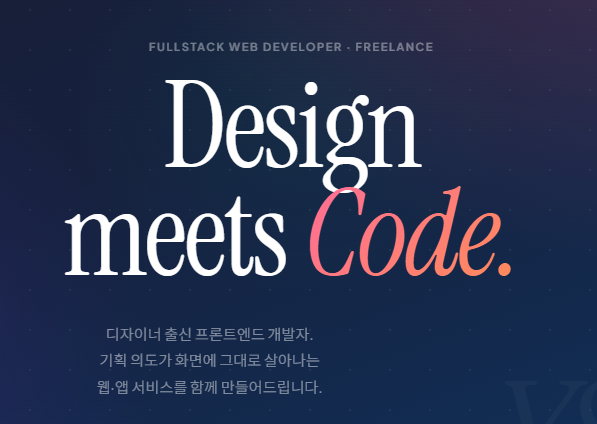
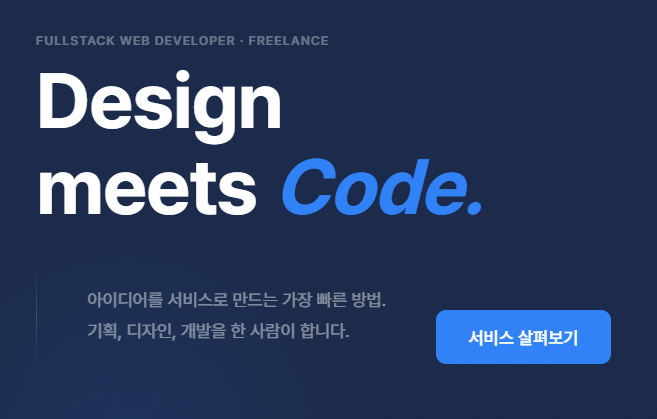
chore:텍스트 수정

diff --git a/src/App.tsx b/src/App.tsx
@@ -368,9 +368,8 @@ export default function App() {
           <div className={`hero-row${heroLoaded ? " loaded" : ""}`}>
             <div className="hero-divider" />
             <p className="hero-sub">
-              디자이너 출신 프론트엔드 개발자.<br />
-              기획 의도가 화면에 그대로 살아나는<br />
-              웹·앱 서비스를 함께 만들어드립니다.
+              아이디어를 서비스로 만드는 가장 빠른 방법.<br />
+              기획, 디자인, 개발을 한 사람이 합니다.
             </p>
             <div className="hero-actions">
               <button className="btn-primary" onClick={() => scrollTo("services")}>
@@ -408,9 +407,9 @@ export default function App() {
           <h2>이런 것을<br /><em>도와드릴 수 있어요</em></h2>
           <div className="services-grid">
             {[
-              { num: "01", icon: "🎨", bg: "#FFF0F5", title: "웹사이트 제작", desc: "기업 홈페이지, 랜딩페이지 제작. 브랜드 아이덴티티에 맞는 디자인과 개발을 함께 진행합니다.", tag: "Landing · Corporate" },
-              { num: "02", icon: "📱", bg: "#F0F0FF", title: "앱 UI 구현",   desc: "모바일 앱 인터페이스 구현. 디자이너 출신 개발자로서 픽셀 퍼펙트한 구현을 목표합니다.", tag: "iOS · Android · React Native" },
-              { num: "03", icon: "⚡", bg: "#F0FFF8", title: "프론트엔드 개발", desc: "React 기반 웹 서비스 개발. Firebase, 상태관리, API 연동까지 풀스택에 가까운 프론트 개발.", tag: "React · Next.js · Firebase" },
+              { num: "01", icon: "🛍", bg: "#FFF0F5", title: "쇼핑몰 제작 · 커스터마이징", desc: "Cafe24, 고도몰 기반 쇼핑몰 제작 및 템플릿 커스터마이징. 브랜드에 맞는 디자인으로 직접 수정이 어려운 부분도 깔끔하게 구현합니다.", tag: "Cafe24 · 고도몰 · 템플릿 커스텀" },
+              { num: "02", icon: "🎨", bg: "#F0F0FF", title: "웹사이트 · 랜딩페이지", desc: "기업 홈페이지, 브랜드 소개, 이벤트 랜딩페이지 제작. 디자인과 개발을 함께 진행해 퀄리티 높은 결과물을 빠르게 만들어드립니다.", tag: "Landing · Corporate · Responsive" },
+              { num: "03", icon: "⚡", bg: "#F0FFF8", title: "서비스 개발", desc: "기획부터 배포까지 한 번에. UI 구현은 물론 백엔드 연동, 데이터베이스 설계, 서버 배포까지 제품 전체를 함께 만들어드립니다.", tag: "React · Next.js · Node.js · Firebase" },
             ].map((s) => (
               <div className="service-card" key={s.num}>
                 <p className="service-num">{s.num}</p>
@@ -446,13 +445,13 @@ export default function App() {
               <div>
                 <h2>디자인과 개발,<br /><em>둘 다 합니다</em></h2>
                 <p className="desc">
-                  디자이너로 커리어를 시작해 현재 프론트엔드 개발자로 일하고 있습니다.
-                  디자인과 개발을 모두 이해하는 경험을 바탕으로 UI 완성도를 높이고
-                  사용자 경험을 개선하는 프론트엔드 개발을 진행하고 있습니다.
+                  기획, 디자인, 개발을 혼자서 처음부터 끝까지 진행합니다.
+                  아이디어 단계에서 구조를 잡고, 직접 디자인하고, 개발해서 배포까지.
+                  한 사람이 전체 흐름을 책임지기 때문에 빠르고 일관성 있는 결과물이 나옵니다.
                 </p>
                 <p className="desc" style={{ marginTop: 20 }}>
-                  디자이너와 개발자 사이의 간극을 좁히고, 기획 의도가 화면에 그대로
-                  살아나는 결과물을 만드는 것을 중요하게 생각합니다.
+                  Cafe24·고도몰 쇼핑몰 커스터마이징부터 React 기반 웹 서비스, 랜딩페이지까지.
+                  규모에 상관없이 클라이언트가 원하는 것을 가장 효율적으로 만들어드립니다.
                 </p>
                 <div className="about-chips">
                   {["UI/UX 디자인", "React 개발", "Firebase", "반응형 웹", "Figma", "협업 커뮤니케이션"].map(c => (

diff --git a/index.html b/index.html
@@ -8,7 +8,7 @@
   <title>와이에스랩</title>
 
   <meta property="og:title" content="와이에스랩" />
-  <meta property="og:description" content="프론트엔드 개발 외주 및 웹 서비스 제작" />
+  <meta property="og:description" content="쇼핑몰·웹서비스·랜딩 개발" />
   <meta property="og:image" content="https://myinfo-a1f75.web.app/preview.png" />
   <meta property="og:url" content="https://myinfo-a1f75.web.app/" />
   <meta property="og:type" content="website" />
